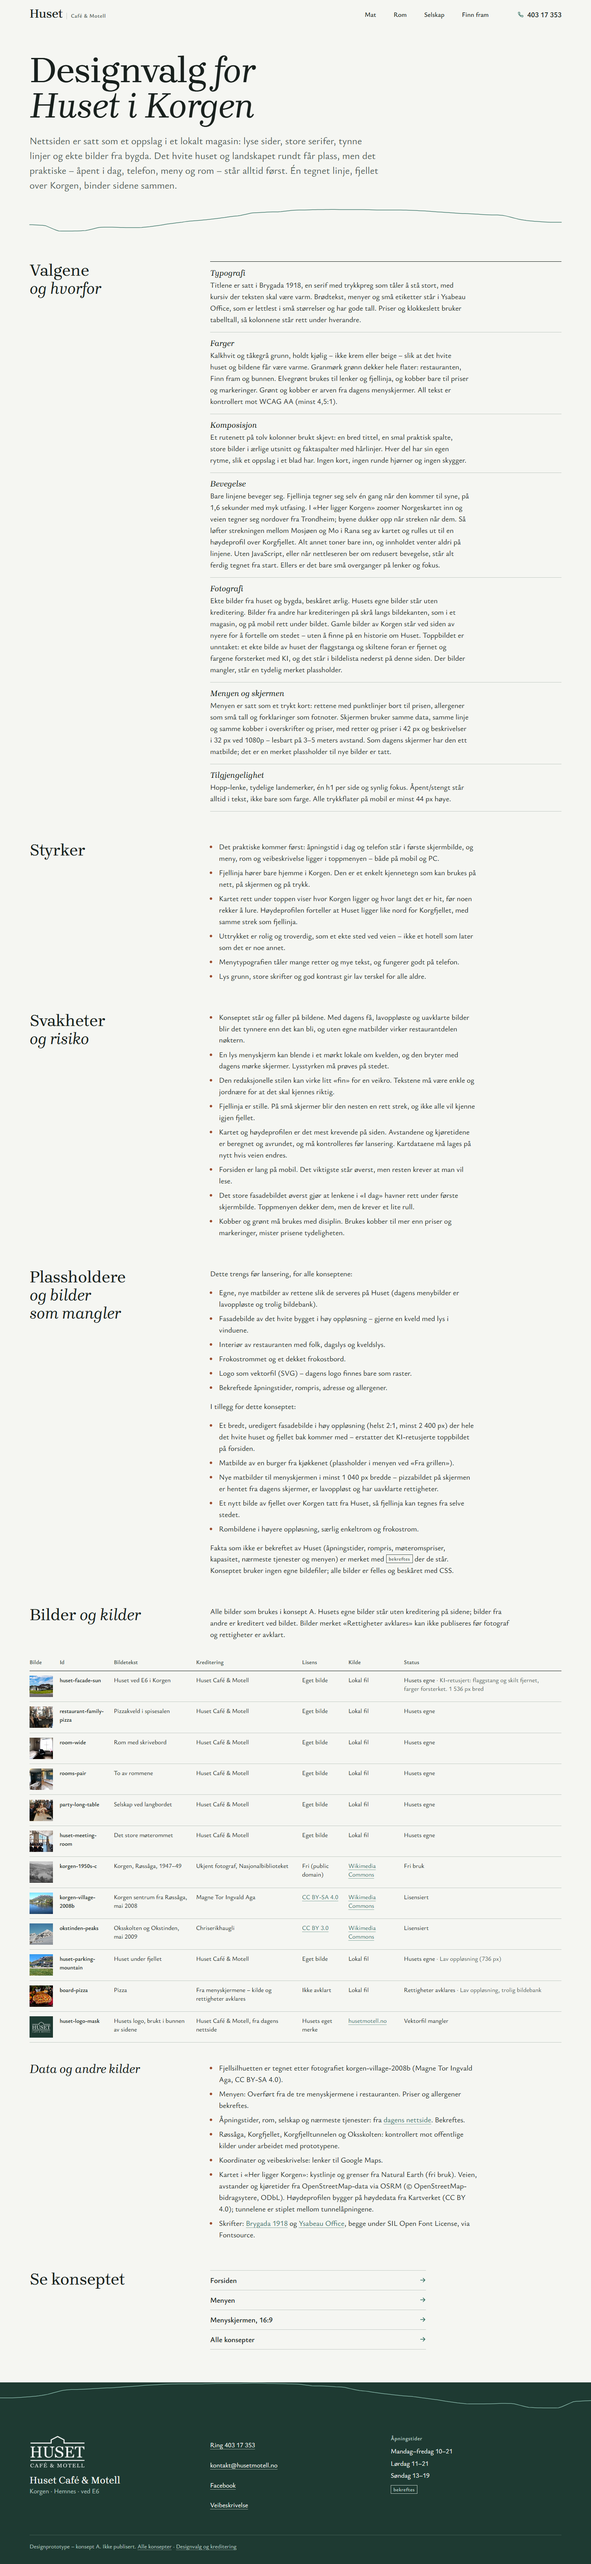
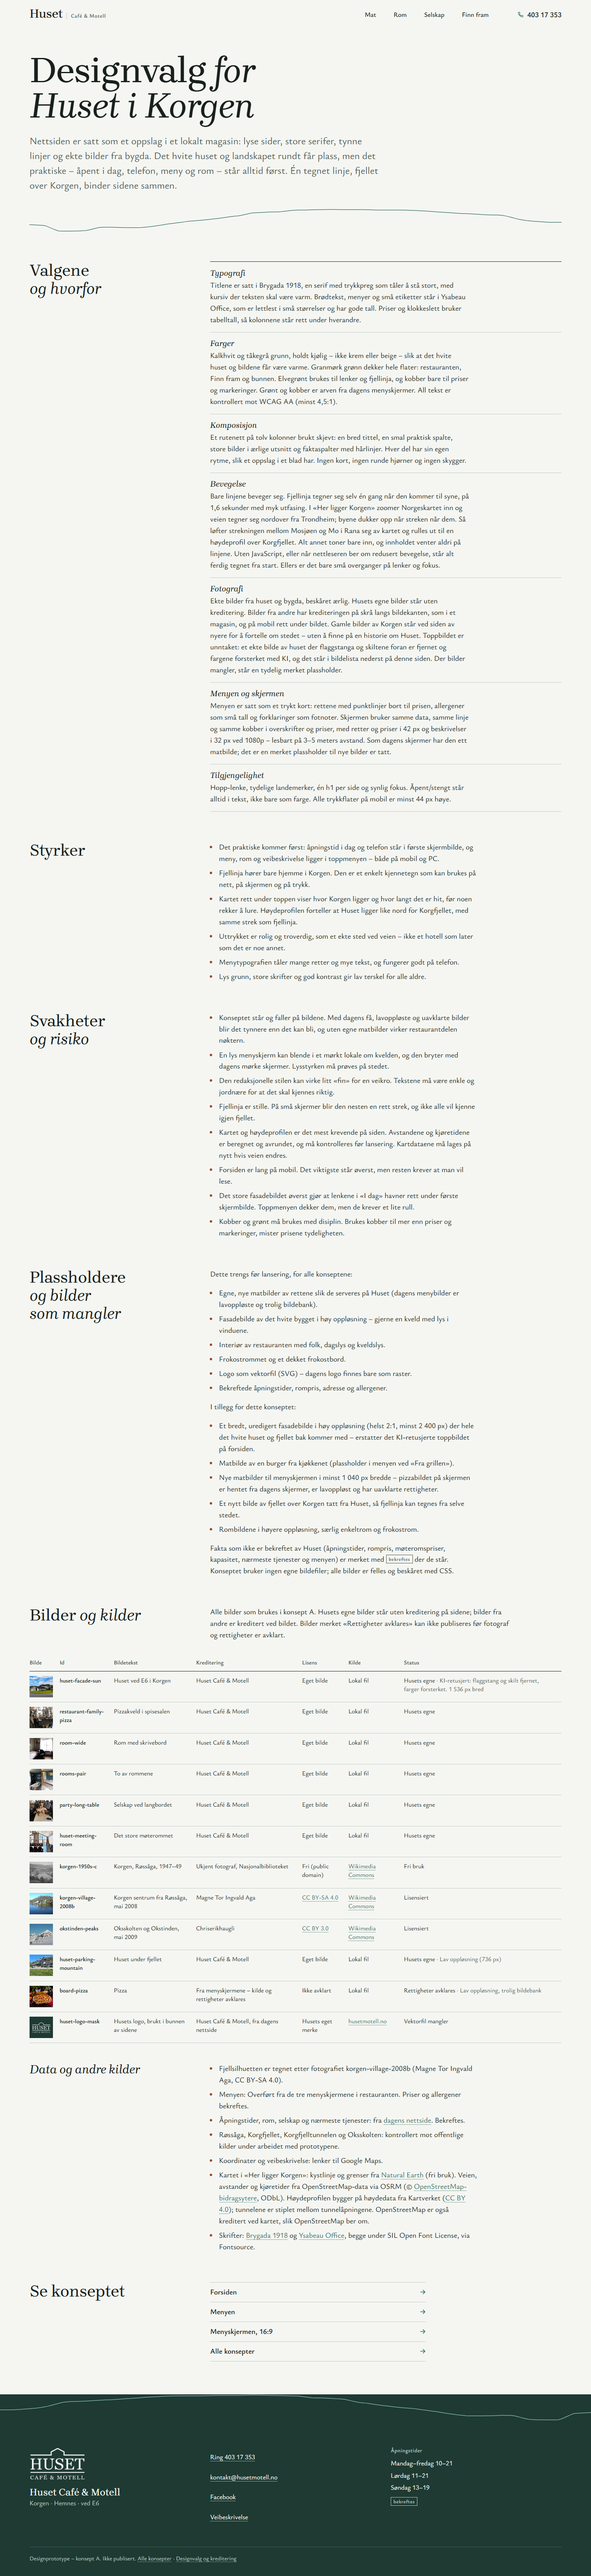
Kartkreditering: OpenStreetMap ved kartet, resten på Om-siden
Merknaden under kjøreavstandene krediterer bare OpenStreetMap, med lenke til
openstreetmap.org/copyright, slik OSMs retningslinjer ber om. Natural Earth
(fri bruk) og Kartverket (CC BY 4.0) står på Om-siden, som merknaden lenker til
(#kilder). Lisenslenker lagt til der.

Copilot-Session: bb98ac28-2698-4a9c-a113-55c8e110cf17

diff --git a/DESIGN.md b/DESIGN.md
@@ -251,7 +251,7 @@ Square corners throughout (`rounded.none`). Lines are 1px. Dot leaders (a 1.8px 
   - When the map is half in view, it zooms from all of Norway to the region and the road draws north from Trondheim. Each city, the E6 tag and Korgen appear as the line reaches them; Korgen gets one copper ripple.
   - When the profile is in view, the Mosjøen–Mo i Rana stretch lifts off the map, crosses the page and unrolls into the profile. The terrain then rises under it and the labels and Huset appear.
   - Only the line moves; everything else fades in. Without JavaScript, when printing or with reduced motion, the finished state is simply there.
-- **Data:** `redesign/scripts/build-map.mjs` generates `src/data/norway-map.json`. The coast and borders come from Natural Earth, the route from OpenStreetMap via OSRM (ODbL), and the heights from Kartverket (CC BY 4.0). Distances are rounded and heights exaggerated, and the note says so. The whole line is never called E6, because the last stretch to Bodø is Rv 80.
+- **Data:** `redesign/scripts/build-map.mjs` generates `src/data/norway-map.json`. The coast and borders come from Natural Earth, the route from OpenStreetMap via OSRM (ODbL), and the heights from Kartverket (CC BY 4.0). Distances are rounded and heights exaggerated, and the note says so. The note credits only OpenStreetMap, linked to its copyright page, because OSM's attribution guideline asks for the credit beside the map; it links on to the «Om» page, which credits all three sources. The whole line is never called E6, because the last stretch to Bodø is Rv 80.
 - **Rule:** the profile's fill is measured terrain, not the skyline, and it does not appear anywhere else as a decorative mountain.
 
 ### Action rows
